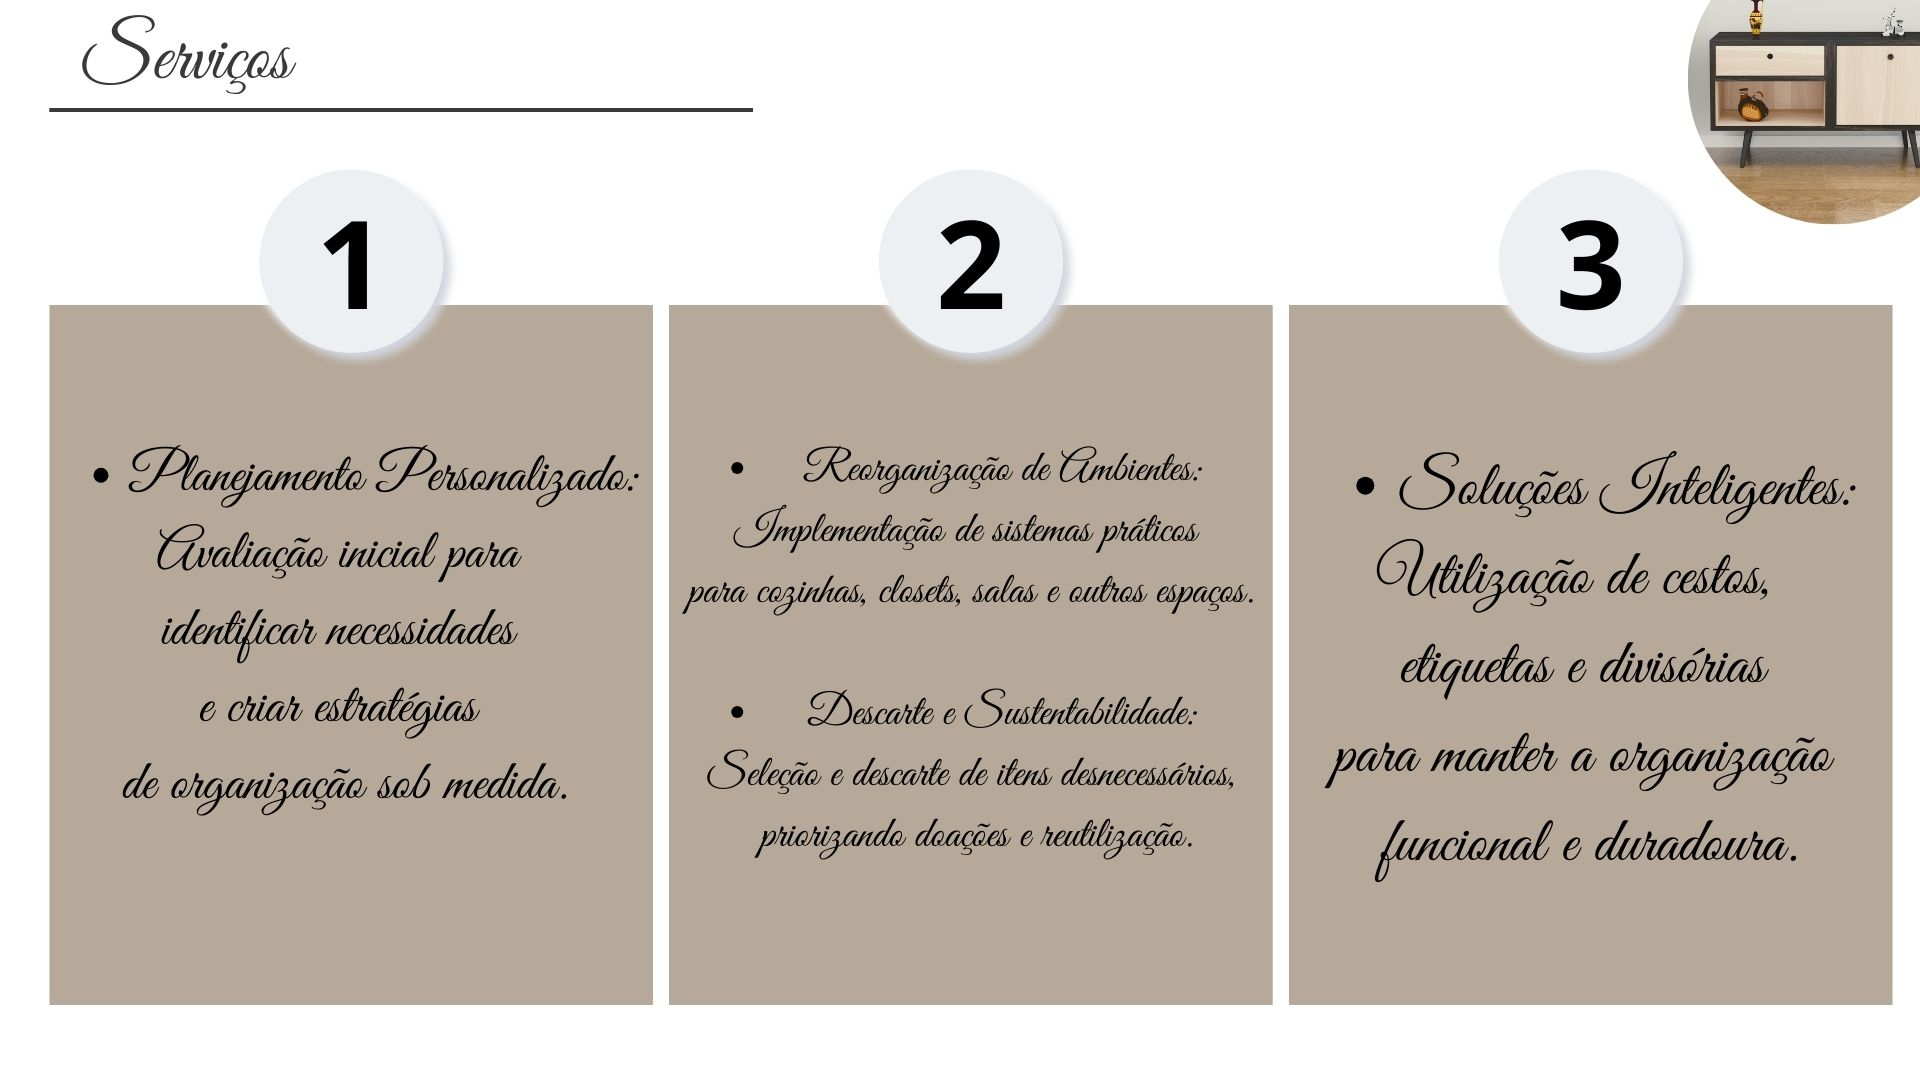
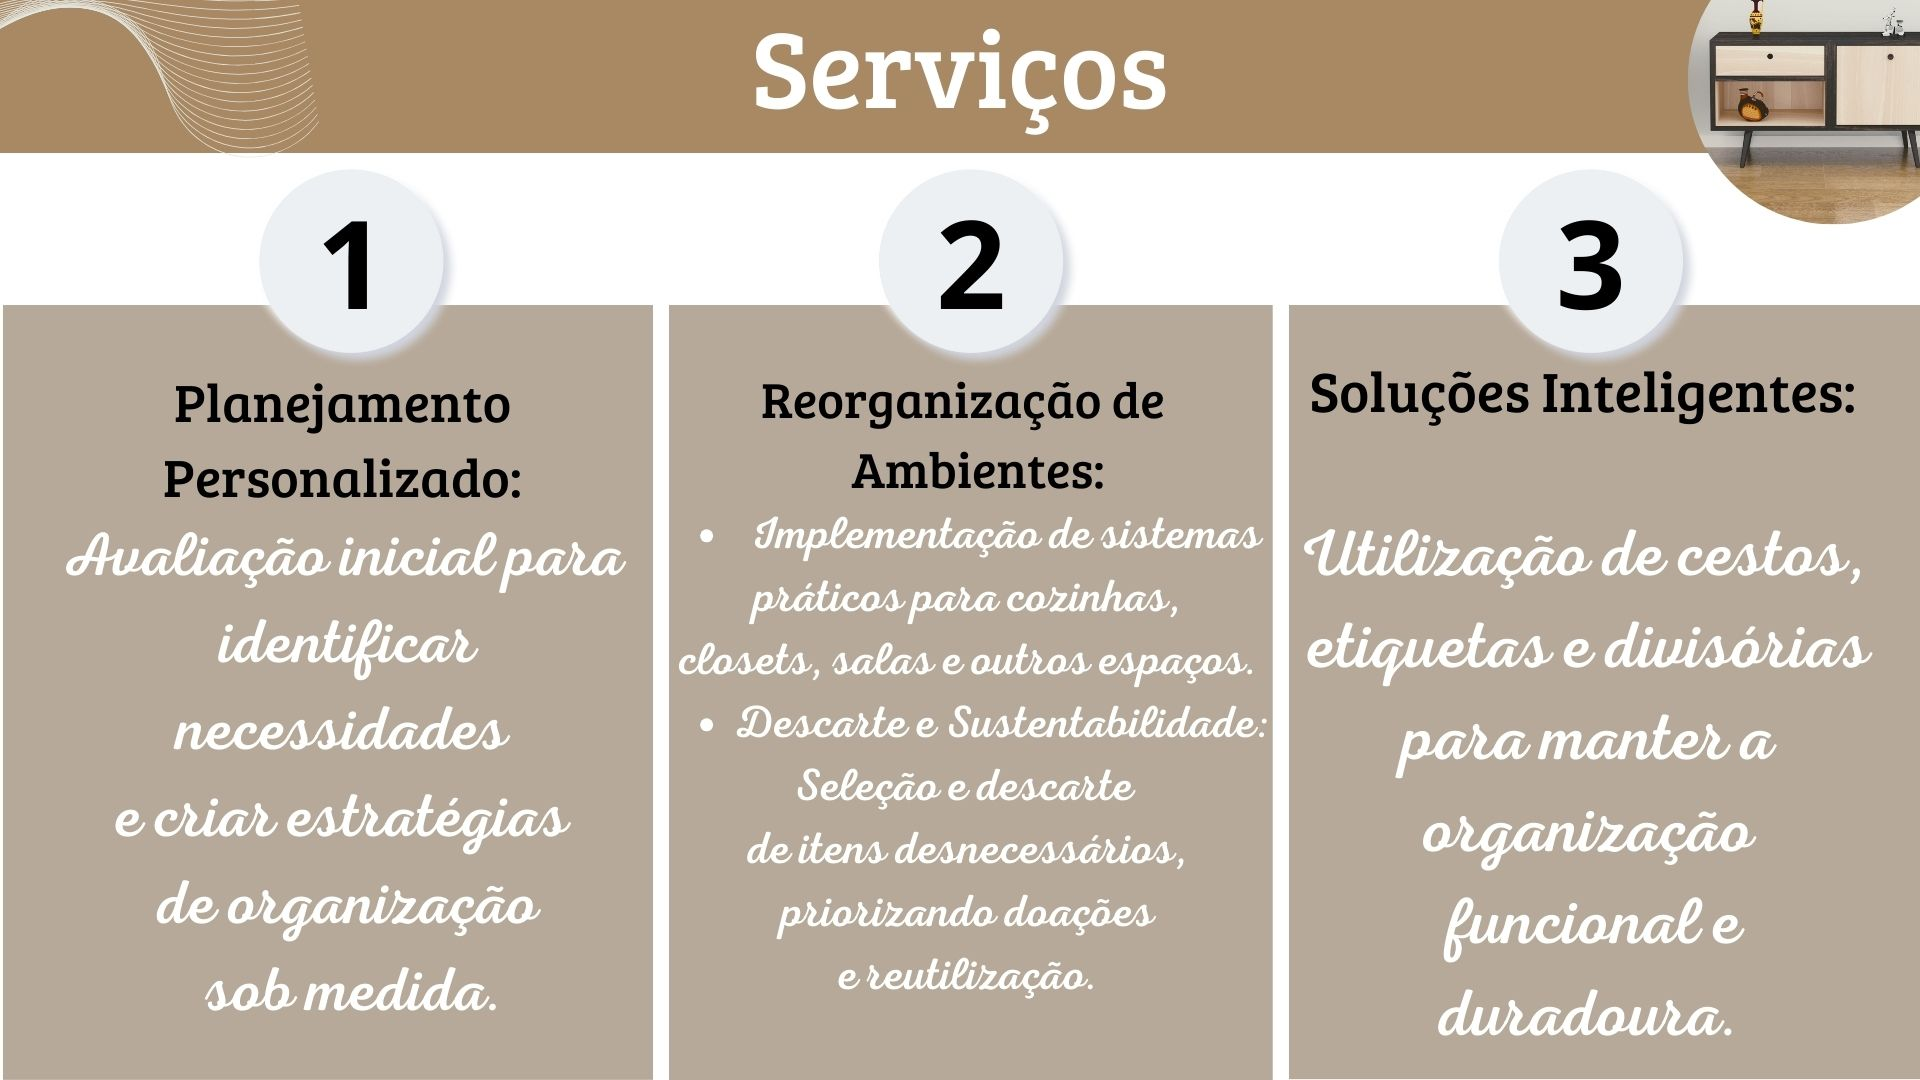
Alteração completa no visual

diff --git a/main.css b/main.css
@@ -67,7 +67,7 @@ header#menu {
     justify-content: space-between; /* Espaçamento uniforme entre texto e botões */
     align-items: center; /* Centraliza verticalmente */
     width: 100%; /* Ocupa toda a largura */
-    background: #f5f5f5; /* Fundo claro */
+    background: #ca9662; /* Fundo claro */
     padding: 20px; /* Espaçamento interno */
     height: 200px; /* Altura fixa */
     box-sizing: border-box; /* Inclui padding no cálculo da largura */
@@ -78,7 +78,7 @@ header#menu {
     position: relative; /* Define o ponto de referência para os elementos absolutos */
     width: 100%; /* Ocupa toda a largura */
     height: 300px; /* Altura fixa */
-    background: #f5f5f5; /* Fundo */
+    background: #a98963; /* Fundo */
     padding: 0px;
     box-sizing: border-box; /* Inclui padding no cálculo de largura */
 }
@@ -238,13 +238,13 @@ header#menu {
 }
 
 #portfolio h2 {
-    font-family: 'Pinyon Script', cursive;
+    font-family: 'Bree Serif', cursive;
     font-size: 3rem;
     text-align: center;
     position: relative; /* Permite ajustar com `left` */
     left: 120px; /* Move o título 20px para a direita */
     margin-bottom: 0px;
-    color: black;
+    color: rgb(144, 87, 41);
 }
 
 .portfolio-grid {
@@ -283,8 +283,8 @@ header#menu {
     left: 50%;
     transform: translate(-50%, -50%);
     font-family: 'Pinyon Script', cursive;
-    font-size: 2.5rem;
-    color: black;
+    font-size: 3rem;
+    color: rgb(16, 15, 15);
     z-index: 2;
     text-align: center;
 }
@@ -329,7 +329,7 @@ header#menu {
 
 /* Slider */
 .slider {
-    width: 90%;
+    width: 100%;
     height: 1200px;
     overflow: hidden;
     position: relative;
@@ -351,11 +351,11 @@ header#menu {
 }
 
 .slider h3 {
-    font-family: 'Pinyon Script', cursive;
+    font-family: 'Bree Serif', cursive;
     font-size: 3.5rem;
     text-align: center;
     margin-bottom: 0px;
-    color: black;
+    color:rgb(144, 87, 41);
 }
 
 /* Seção Serviços */
@@ -372,17 +372,18 @@ header#menu {
 
 /* Seção Investir */
 #investir {
-    min-height: 600px;
+    min-height: 650px;
     background: url('images/investimento-agenda.jpg') no-repeat center center/cover;
     background-size: 100% auto; 
     display: flex;
     flex-direction: column;
     justify-content: center;
     align-items: center;
-    padding: -50px;
+    padding: 0px;
     text-align: center;
     color: white;
-    margin-top: -120px; /* Remove a margem superior */
+    margin-top: 30px; /* Remove a margem superior */
+    margin-bottom: 30px; /* Remove a margem superior */
 }
 
 /* Ajustes para dispositivos móveis */

diff --git a/main.html b/main.html
@@ -6,6 +6,8 @@
   <meta name="viewport" content="width=1200, initial-scale=0.4, maximum-scale=2, user-scalable=yes">
   <title>Meu Portfólio</title>
   <link href="https://fonts.googleapis.com/css2?family=Pinyon+Script&display=swap" rel="stylesheet">
+  <link href="https://fonts.googleapis.com/css2?family=Bree+Serif&display=swap" rel="stylesheet">
+  <link href="https://fonts.googleapis.com/css2?family=Adam+Script&display=swap" rel="stylesheet">
   <link rel="stylesheet" href="main.css">
 </head>
 <body>
@@ -38,21 +40,7 @@
   <section id="sobre" class="section">
     <div class="sobre"></div>
   </section>
-  <section id="barra">
-    <p>Contactos</p>
-    <div class="contacts">
-        <!-- Seus links de telefone, email, instagram etc. -->
-        <a href="tel:+351919736324" target="_blank" class="phone-btn">
-          <img src="images/phone-icon.png" alt="Telefone">
-        </a>
-        <a href="mailto:elisandrapersonalorganaize@gmail.com" target="_blank" class="email-btn">
-          <img src="images/email-icon.png" alt="Email">
-        </a>
-        <a href="https://www.instagram.com/elisandrapersonalorganaize" target="_blank" class="instagram-btn">
-          <img src="images/instagram-icon.png" alt="Instagram">
-        </a>
-      </div>
-  </section>
+ 
   <!-- Seção Portfólio -->
   <section id="portfolio" class="section container">
     <h2>Portfólio</h2>
@@ -85,6 +73,7 @@
         <img src="images/depois1.jpg" alt="Depois 1">
         <img src="images/antes2.jpg" alt="Antes 2">
         <img src="images/depois2.jpg" alt="Depois 2">
+        <img src="images/antes3.jpg" alt="Antes 3">
       </div>
     </div>
   </section>
@@ -102,3 +91,19 @@
   <script src="main.js"></script>
 </body>
 </html>
+
+<section id="barra">
+    <p>Contactos</p>
+    <div class="contacts">
+        <!-- Seus links de telefone, email, instagram etc. -->
+        <a href="tel:+351919736324" target="_blank" class="phone-btn">
+          <img src="images/phone-icon.png" alt="Telefone">
+        </a>
+        <a href="mailto:elisandrapersonalorganaize@gmail.com" target="_blank" class="email-btn">
+          <img src="images/email-icon.png" alt="Email">
+        </a>
+        <a href="https://www.instagram.com/elisandrapersonalorganaize" target="_blank" class="instagram-btn">
+          <img src="images/instagram-icon.png" alt="Instagram">
+        </a>
+      </div>
+  </section>

diff --git a/intro.js b/intro.js
@@ -2,9 +2,29 @@
 const introVideo = document.getElementById('introVideo');
 const introSection = document.getElementById('introSection');
 
+// Tenta reproduzir o vídeo automaticamente
+function playVideo() {
+    introVideo.play()
+        .then(() => {
+            console.log("Vídeo reproduzido automaticamente.");
+        })
+        .catch(error => {
+            console.error("Erro ao reproduzir o vídeo automaticamente:", error);
+            // Se o autoplay falhar, aguarda a primeira interação do usuário
+            document.body.addEventListener('click', () => {
+                introVideo.play().catch(error => {
+                    console.error("Erro ao reproduzir o vídeo após interação:", error);
+                });
+            }, { once: true }); // Executa apenas uma vez
+        });
+}
+
+// Tenta reproduzir o vídeo automaticamente ao carregar a página
+playVideo();
+
 // Quando o vídeo termina
 introVideo.addEventListener('ended', () => {
-    // Adiciona a classe de transição
+    console.log("Vídeo terminou. Redirecionando...");
     introSection.classList.add('hidden');
 
     // Após a transição, redireciona para a página principal
